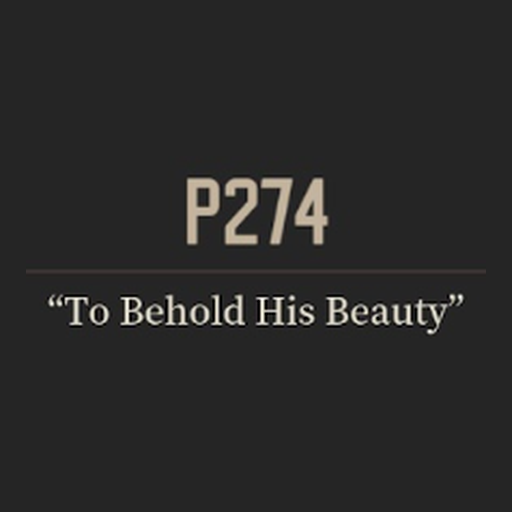
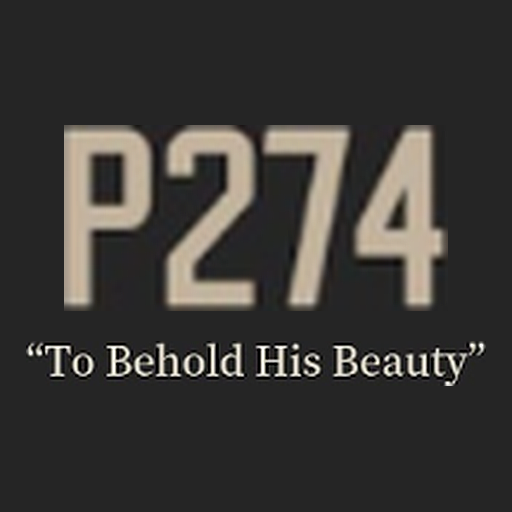
Add files via upload

Changed region(s): [[0.0312, 0.2188, 0.9688, 0.75]]

diff --git a/sw.js b/sw.js
@@ -1,8 +1,8 @@
-const CACHE_NAME = 'parashat-tracker-v9';
+const CACHE_NAME = 'parashat-tracker-v10';
 const urlsToCache = [
   './',
   './index.html',
-  './style.css?v=9',
+  './style.css?v=10',
   './bible-data.js',
   './hebcal.js',
   './generator.js',

diff --git a/index.html b/index.html
@@ -11,7 +11,7 @@
   <meta name="apple-mobile-web-app-title" content="p274 reading plan">
   
   <link href="https://fonts.googleapis.com/css2?family=Noto+Sans+KR:wght@400;500;700;900&family=Noto+Serif+KR:wght@700;900&family=Inter:wght@400;600;800&display=swap" rel="stylesheet">
-  <link rel="stylesheet" href="style.css?v=9">
+  <link rel="stylesheet" href="style.css?v=10">
   <link rel="manifest" href="manifest.json">
 </head>
 <body>